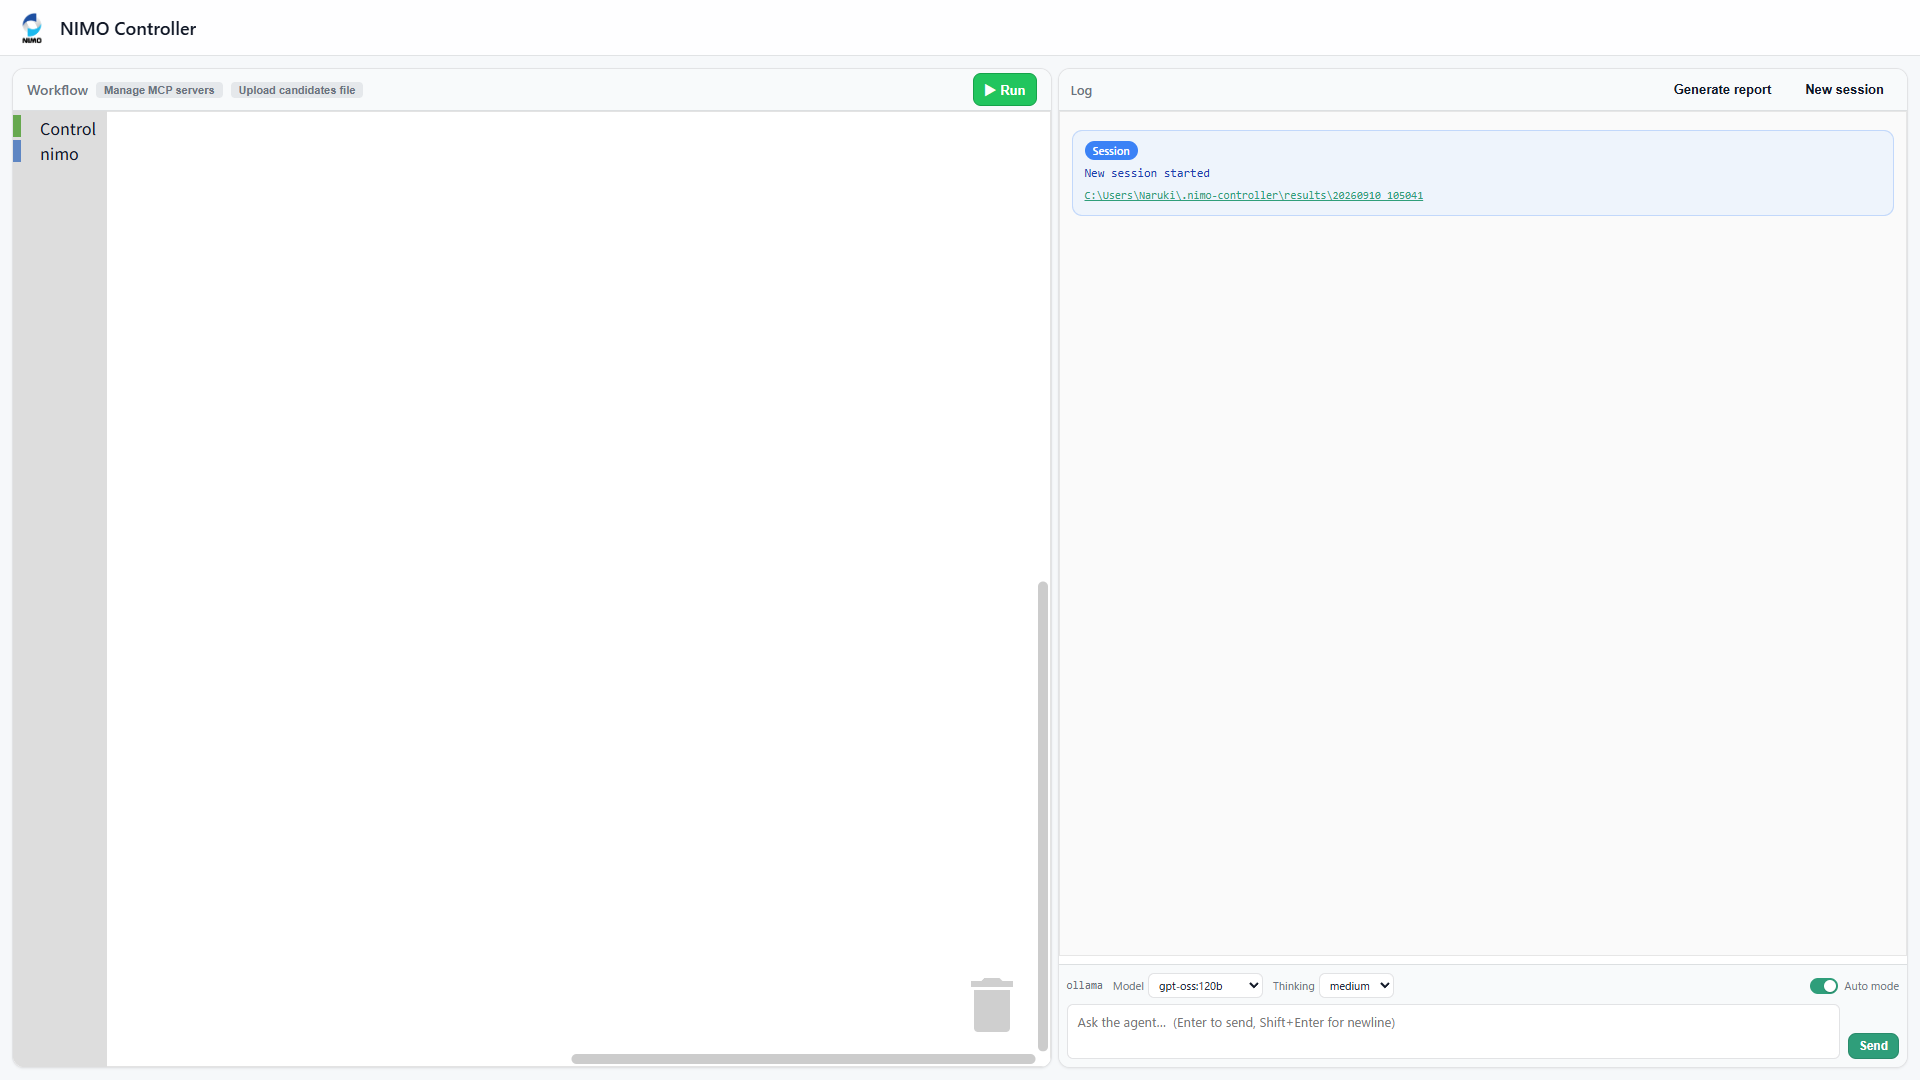
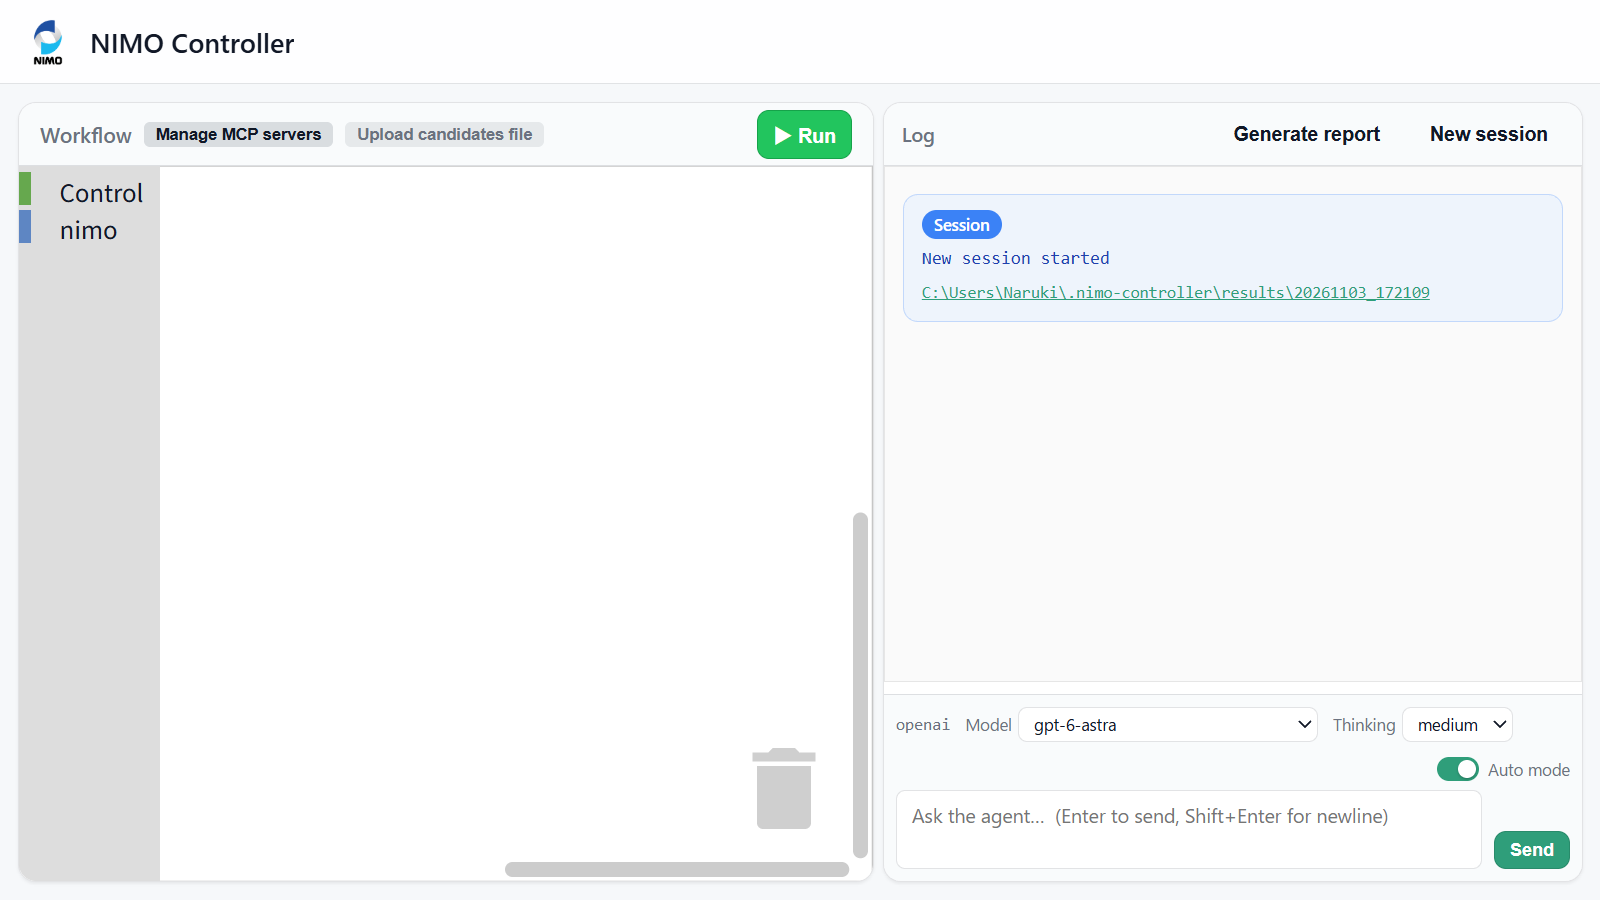
Update document and add token count

diff --git a/evaluation/run_eval.py b/evaluation/run_eval.py
@@ -8,7 +8,8 @@ For every model listed in MODELS below, each instruction is converted into workf
 once per seed in SEEDS, and the behavior of the generated XML is judged against
 expected.xml. Two tables are printed: per-task o/x (one character per seed) and,
 per instruction kind (detailed, succinct, ...), the mean number of tasks solved
-per seed. Generated XML and .trace files are kept in each task's own
+per seed, followed by what the generations cost in tokens per model and method.
+Generated XML and .trace files are kept in each task's own
 eval_data/<task_name>/results/.
 """
 
@@ -20,21 +21,22 @@ import traceback
 from pathlib import Path
 
 from pydantic_ai.exceptions import UnexpectedModelBehavior
+from pydantic_ai.usage import RunUsage
 
 from compare_xml import trace_lines, trace_of
 from generate_clairify import generate as generate_clairify
 from generate_xml import generate as generate_pydantic
 
 # -- configuration: edit here, no command-line arguments ----------------------
-MODELS = ["gpt-oss:20b"]  # model names to evaluate
+MODELS = ["gemma4:31b"]  # model names to evaluate
 # Generation methods to compare: name -> generate function (one per module).
 METHODS = {"pydantic": generate_pydantic, "clairify": generate_clairify}
-PROVIDER = "ollama"           # None = agent.provider from config.yaml, or openai
-BASE_URL = "http://127.0.0.1:11434/v1" # None = agent.base_url from config.yaml
+PROVIDER = "ollama"       # None = agent.provider from config.yaml, or openai
+BASE_URL = "http://100.92.112.72:11434/v1"           # None = agent.base_url from config.yaml
 THINKING = None           # None = the model's own default
 TEMPERATURE = None        # fixed for reproducibility; None = model's default
 SEEDS: list[int] = [0]   # one generation per seed; formatting slips
-TASKS: list[str] = []     # eval_data folder names to run, e.g. ["task00_ackley"]; empty = all
+TASKS: list[str] = ["task10_color_matching"]     # eval_data folder names to run, e.g. ["task00_ackley"]; empty = all
 TIMEOUT_S: float | None = 120   # limit per generation in seconds; None = no limit
 DATA_DIR = Path(__file__).parent / "eval_data"
 # -----------------------------------------------------------------------------
@@ -70,6 +72,12 @@ def _save(path: Path, xml: str, xml_too: bool = True) -> None:
 def main() -> None:
     # (case, instruction stem, column, seed) -> "o"/"x"/"E"/"T"
     results: dict[tuple[str, str, str, int], str] = {}
+    # (case, instruction stem, column) -> what those generations spent, and
+    # how many there were. Seeds are summed together, so one entry is one
+    # input under one model and method. Counted for every generation, the
+    # timed-out and failed ones included: their attempts cost tokens too.
+    spend: dict[tuple[str, str, str], RunUsage] = {}
+    runs: dict[tuple[str, str, str], int] = {}
     for model in MODELS:
         for method, generate in METHODS.items():
             column = f"{model} ({method})"
@@ -87,13 +95,15 @@ def main() -> None:
                     out_path = out_dir / f"{instruction_file.stem}.seed{seed}.xml"
                     catalog_data = json.loads(
                         (case / "catalog.json").read_text(encoding="utf-8"))
+                    usage = RunUsage()
                     try:
                         xml = generate(
                             instruction_file.read_text(encoding="utf-8"),
                             catalog_data, model, PROVIDER, BASE_URL,
                             THINKING, TEMPERATURE, seed,
                             timeout=TIMEOUT_S,
-                            attempts_log=str(out_path) + ".attempts.log")
+                            attempts_log=str(out_path) + ".attempts.log",
+                            usage=usage)
                     except asyncio.TimeoutError:
                         results[key] = "T"
                         print(f"[eval] {label}: TIMEOUT ({TIMEOUT_S}s)",
@@ -111,6 +121,13 @@ def main() -> None:
                         traceback.print_exc()
                         results[key] = "E"
                         continue
+                    finally:
+                        # Runs on the continue of every branch above as well,
+                        # which is the point: a generation that timed out or
+                        # errored still spent what it spent. Same key as
+                        # ``results``, minus the seed.
+                        spend.setdefault(key[:3], RunUsage()).incr(usage)
+                        runs[key[:3]] = runs.get(key[:3], 0) + 1
                     _save(out_path, xml)
                     # Judge from the saved artifact, so the verdict can always
                     # be reproduced from the files on disk.
@@ -182,6 +199,61 @@ def main() -> None:
         print(line(cn, cells))
     print("-" * (label_w + sum(col_w.values()) + 2 * (len(pairs) - 1)))
     print(line("average score", avg))
+
+    # What the generations cost: first per input, then per column. Every
+    # generation counts, the failed and timed-out ones included, so a column
+    # that solved little can still be the expensive one — which is the
+    # comparison these tables exist for. They carry their own widths rather
+    # than the score table's: the cells are numbers, not scores, and nothing
+    # lines up between them.
+    def table(title: str, headers: tuple[str, ...],
+              body: list[tuple[str, ...]]) -> None:
+        widths = [max([len(h)] + [len(r[i]) for r in body])
+                  for i, h in enumerate(headers)]
+        print()
+        print(title)
+        for row in [headers, *body]:
+            print("  ".join(v.ljust(w) for v, w in zip(row, widths)).rstrip())
+
+    def amount(total: int, n: int) -> str:
+        """A sum with the per-generation mean beside it."""
+        if not n or not total:
+            return f"{total:,}"
+        mean = total / n
+        # A decimal where it says something — a request count averages 1.8 —
+        # but not a tenth of a token.
+        return f"{total:,} ({mean:,.1f})" if mean < 10 else f"{total:,} ({mean:,.0f})"
+
+    # Per input: one row per instruction file, one cell per model and method.
+    table("token usage per input: input / output tokens"
+          + (f", summed over {len(SEEDS)} seeds" if len(SEEDS) > 1 else "")
+          + "; a generation that timed out reports none",
+          ("input", *(col(m, mt) for m, mt in pairs)),
+          [(task, *(f"{u.input_tokens:,} / {u.output_tokens:,}"
+                    for u in (spend.get((case.name, instruction_file.stem,
+                                         col(m, mt)), RunUsage())
+                              for m, mt in pairs)))
+           for task, instruction_file, case in tasks()])
+
+    # Per column: the same spend summed over every input.
+    totals: dict[str, tuple[RunUsage, int]] = {}
+    for m, mt in pairs:
+        column = col(m, mt)
+        used, n = RunUsage(), 0
+        for entry, spent in spend.items():
+            if entry[2] == column:
+                used.incr(spent)
+                n += runs[entry]
+        totals[column] = (used, n)
+    table("token usage in total: sum (mean per generation); input tokens "
+          "include cached reads",
+          ("model (method)", "generations", "requests", "input tokens",
+           "output tokens", "total tokens"),
+          [(column, str(n), amount(used.requests, n),
+            amount(used.input_tokens, n), amount(used.output_tokens, n),
+            amount(used.total_tokens, n))
+           for column, (used, n) in
+           ((col(m, mt), totals[col(m, mt)]) for m, mt in pairs)])
 
 
 if __name__ == "__main__":

diff --git a/evaluation/generate_xml.py b/evaluation/generate_xml.py
@@ -352,18 +352,23 @@ def generate_with(write_fn: Any, instruction: str, catalog_data: dict,
                   temperature: float | None = None,
                   seed: int | None = None,
                   timeout: float | None = None,
-                  attempts_log: str | None = None) -> str:
+                  attempts_log: str | None = None,
+                  usage: RunUsage | None = None) -> str:
     """Run one workflow writer on *instruction* and return nimo-workflow XML.
 
     ``write_fn`` is a write_workflow-shaped coroutine function (this module's
     structured-output planner, or generate_clairify's spec-prompted one).
     ``catalog_data`` is a parsed catalog JSON from build_catalog.py. provider
-    and base_url default to config.yaml's agent section (then openai).
+    and base_url default to config.yaml's agent section (then openai), except
+    that overriding the provider also drops the config's base_url — it is that
+    provider's address, not this one's.
     ``timeout`` limits the whole run in seconds (asyncio.TimeoutError on
     expiry; None = no limit). ``attempts_log`` names a file that receives the
     per-attempt transcript (thinking, raw outputs, validation feedback) —
-    written even when the run fails or times out. Progress and retries are
-    logged to stderr.
+    written even when the run fails or times out. ``usage``, when given, is
+    incremented by what this generation spent — on a failed or timed-out run
+    too, since its attempts were paid for all the same. Progress and retries
+    are logged to stderr.
     """
     catalog = build_catalog(catalog_data["tools"], catalog_data["parameters"])
 
@@ -372,13 +377,22 @@ def generate_with(write_fn: Any, instruction: str, catalog_data: dict,
     if cfg_path.is_file():
         with open(cfg_path, encoding="utf-8") as f:
             agent_cfg = (yaml.safe_load(f) or {}).get("agent") or {}
-    provider = provider or agent_cfg.get("provider", "openai")
-    base_url = base_url or agent_cfg.get("base_url")
+    config_provider = agent_cfg.get("provider", "openai")
+    # The config's base_url belongs to the config's provider, so it is only
+    # inherited when the provider has not been overridden. Otherwise asking
+    # for, say, openai while the config points at an ollama server sends the
+    # request there, and every model name comes back 404.
+    if base_url is None and provider in (None, config_provider):
+        base_url = agent_cfg.get("base_url")
+    provider = provider or config_provider
 
     model = build_model(model_name, provider, base_url, thinking,
                         temperature, seed, timeout)
     handler, state = make_progress(timeout)
-    usage = RunUsage()   # filled in place by the run
+    # The run's own usage object, never the caller's: an abandoned thread
+    # (below) keeps adding to this one long after the caller has read its
+    # total, so what reaches ``usage`` is a snapshot taken once, at the end.
+    spent = RunUsage()   # filled in place by the run
     done: queue.Queue = queue.Queue(1)
 
     def run_planner() -> None:
@@ -388,7 +402,7 @@ def generate_with(write_fn: Any, instruction: str, catalog_data: dict,
         with capture_run_messages() as messages:
             try:
                 done.put(("ok", asyncio.run(asyncio.wait_for(
-                    write_fn(instruction, catalog, model, usage=usage,
+                    write_fn(instruction, catalog, model, usage=spent,
                              event_stream_handler=handler), timeout))))
             except BaseException as e:   # reraised on the calling thread
                 done.put(("error", e))
@@ -407,30 +421,35 @@ def generate_with(write_fn: Any, instruction: str, catalog_data: dict,
     # the process, and silenced so it cannot scribble over the next run.
     threading.Thread(target=run_planner, daemon=True).start()
     try:
-        outcome, value = done.get(
-            timeout=None if timeout is None else timeout + ABANDON_GRACE_S)
-    except queue.Empty:
-        state["abandoned"] = True
-        raise asyncio.TimeoutError(
-            f"generation did not stop {ABANDON_GRACE_S:.0f}s after its "
-            f"{timeout:.0f}s timeout; abandoned") from None
-    if outcome == "error":
-        raise value
-    print(f"[planner] done in {time.monotonic() - state['t0']:.0f}s — "
-          f"{state['attempt']} request(s), {usage.input_tokens} in / "
-          f"{usage.output_tokens} out tokens", file=sys.stderr)
-    return to_nimo_workflow_xml(value, catalog_data)
+        try:
+            outcome, value = done.get(
+                timeout=None if timeout is None else timeout + ABANDON_GRACE_S)
+        except queue.Empty:
+            state["abandoned"] = True
+            raise asyncio.TimeoutError(
+                f"generation did not stop {ABANDON_GRACE_S:.0f}s after its "
+                f"{timeout:.0f}s timeout; abandoned") from None
+        if outcome == "error":
+            raise value
+        print(f"[planner] done in {time.monotonic() - state['t0']:.0f}s — "
+              f"{state['attempt']} request(s), {spent.input_tokens} in / "
+              f"{spent.output_tokens} out tokens", file=sys.stderr)
+        return to_nimo_workflow_xml(value, catalog_data)
+    finally:
+        if usage is not None:
+            usage.incr(spent)
 
 
 def generate(instruction: str, catalog_data: dict, model_name: str,
              provider: str | None = None, base_url: str | None = None,
              thinking: str | None = None, temperature: float | None = None,
              seed: int | None = None, timeout: float | None = None,
-             attempts_log: str | None = None) -> str:
+             attempts_log: str | None = None,
+             usage: RunUsage | None = None) -> str:
     """The app's structured-output (pydantic) planner as XML generation."""
     return generate_with(write_workflow, instruction, catalog_data, model_name,
                          provider, base_url, thinking, temperature, seed,
-                         timeout, attempts_log)
+                         timeout, attempts_log, usage)
 
 
 def cli_main(generate_fn: Any, doc: str) -> None:

diff --git a/evaluation/generate_clairify.py b/evaluation/generate_clairify.py
@@ -216,11 +216,12 @@ def generate(instruction: str, catalog_data: dict, model_name: str,
              provider: str | None = None, base_url: str | None = None,
              thinking: str | None = None, temperature: float | None = None,
              seed: int | None = None, timeout: float | None = None,
-             attempts_log: str | None = None) -> str:
+             attempts_log: str | None = None,
+             usage: RunUsage | None = None) -> str:
     """The CLAIRify-style spec-prompted planner as XML generation."""
     return generate_with(write_workflow_from_xml, instruction, catalog_data,
                          model_name, provider, base_url, thinking, temperature,
-                         seed, timeout, attempts_log)
+                         seed, timeout, attempts_log, usage)
 
 
 if __name__ == "__main__":

diff --git a/README.md b/README.md
@@ -12,15 +12,30 @@ uv sync
 
 ## Examples
 
-### Bayesian optimization
+### Configuration
+You need to configure the agent settings to use the agent mode of NIMO Controller.
 
-The `example_mcp/optimization` directory contains an example MCP server that implements the two-dimensional [test functions for optimization](https://en.wikipedia.org/wiki/Test_functions_for_optimization).
+In this example, we assume you have set your OpenAI API key in the `OPENAI_API_KEY` environment variable.
+
+Open `config.yaml` in an editor and edit it as follows.
+See the comments in the file for more information.
+
+```yaml
+port: 8888
+enable_agent: true
+agent:
+  provider: openai
+```
+
+### Color matching
+
+The `example_mcp/color_matching` directory contains an example MCP server that implements the color-matching SDL example from the paper in a simulated environment.
 
 Start the MCP server:
 
 ```
-cd example_mcp/optimization
-uv run mcp_test_function.py
+cd example_mcp/color_matching
+uv run mcp_color_matching.py
 ```
 
 In a separate terminal, launch NIMO Controller:
@@ -31,53 +46,29 @@ uv run nimo-controller
 ```
 
 Then open `http://127.0.0.1:8888/` in your browser.
-You will see an empty screen. The agent text box will appear when `enable_agent` is set `true` in the configuration.
+You will see an empty screen.
 
 ![screenshot1](./screenshots/screenshot1.png)
 
-First, you need to add the MCP server. Click `Manage MCP servers` button and type a name for MCP server and `http://127.0.0.1:8001/mcp` as its URL. 
+First, you need to add the MCP server.
+Click the `Manage MCP servers` button, type `sdl` as the name for the MCP server and `http://127.0.0.1:8001/mcp` as its URL, and press `Add`.
+An `sdl` toolbox category will appear in the Blockly interface.
 
 ![screenshot2](./screenshots/screenshot2.png)
 
-Click the `Upload candidates file` button and upload `example_mcp/optimization/candidates.csv`.
-Once uploaded, the `x1` and `x2` blocks will appear in the NIMO toolbox.
+Click the `Upload candidates file` button and upload `example_mcp/color_matching/candidates.csv`.
+Once uploaded, the `blue`, `yellow`, and `red` blocks will appear in the NIMO toolbox.
 
 ![screenshot3](./screenshots/screenshot3.png)
 
-Use the blocks to build the workflow shown below:
+Choose your favorite OpenAI model in the chat box (here we use `gpt-6-astra`) and type the following prompt:
+
+`Match the target color 00ffff in 12 cycles by minimizing get_color_diff. First, move to the home position. The first 4 cycles use RE selection, the remaining 8 use PHYSBO minimization. In each cycle, for red, blue, yellow in that order: move to the color well, aspirate the proposed volume, move to the mixing well numbered by the cycle counter, and dispense it. Then evaluate get_color_diff on that well against 00ffff and update the objective. Finally, plot the best-value history in minimization mode.`
 
 ![screenshot4](./screenshots/screenshot4.png)
 
-Press the `Run` button to execute the workflow.
+After a while, the agent constructs the workflow and executes it.
 
 ![screenshot5](./screenshots/screenshot5.png)
 
-## Configuration
-
-Configuration is loaded from the following sources, in order of precedence:
-
-1. `./config.yaml` in the current directory
-2. `<user-config-dir>/nimo-controller/config.yaml` (for example, `~/.config/nimo-controller/config.yaml`)
-3. Built-in defaults (used when no config file exists)
-
-Example `config.yaml`:
-
-```yaml
-port: 8888
-
-mcp_servers:
-  sdl: "http://127.0.0.1:8001/mcp"
-
-enable_agent: true
-
-# provider: "openai" (OPENAI_API_KEY) | "anthropic" (ANTHROPIC_API_KEY)
-# | "ollama" (base_url required, no key). The model and its reasoning level
-# are picked in the UI, not here.
-agent:
-  provider: ollama
-  base_url: "http://127.0.0.1:11434/v1"
-
-# Optional: where candidates.csv and results/ are stored.
-# Defaults to ~/.nimo-controller if omitted.
-# data_dir: "~/my-nimo-data"
-```
+**Note**: The color-matching MCP server maintains the state of the simulated mixing wells across experiments. Starting a new NIMO Controller session does not reset this state. To start a new experiment with fresh initial conditions, restart the color-matching MCP server and reload it from `Manage MCP Servers`.

diff --git a/evaluation/README.md b/evaluation/README.md
@@ -75,6 +75,18 @@ like `expected.xml`, `x` differs, `E` generation failed, `T` timed out. The
 `avg <kind>` rows are the mean number of tasks solved per seed for that
 instruction kind, and `pass total` counts every generation.
 
+Below the scores come two `token usage` tables. The first has one row per
+input (instruction file) and one cell per model and method, holding the input
+and output tokens that input cost, summed over the seeds. The second sums each
+column over every input: generations, requests and input/output/total tokens,
+each as the total with the mean per generation in brackets.
+
+Both count every generation, including the ones that failed or timed out —
+their attempts cost tokens too — so the cheapest column is not necessarily the
+one that solved the most. A generation that timed out usually reports 0 tokens:
+the counts come from the model's response, which never arrived, even though the
+server did process the prompt.
+
 Artifacts are written to `eval_data/<task>/results/`: `expected.xml.trace` plus
 `<model>/<method>/<instruction>.seed<N>.xml`, its `.trace`, and an
 `.attempts.log` of the model's retries.
